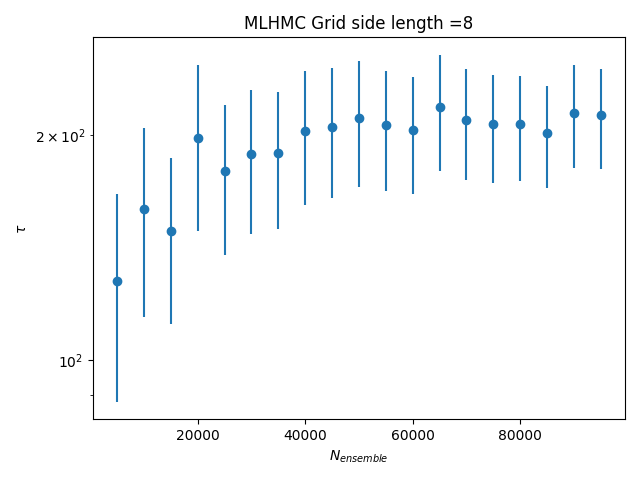
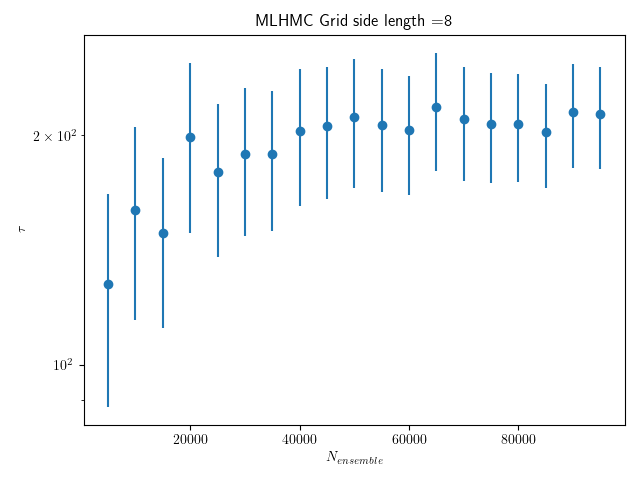
plotted results

diff --git a/plot/plot.py b/plot/plot.py
@@ -8,6 +8,11 @@ import numpy as np
 import scipy.special
 import scipy.optimize as opt
 
+plt.rcParams.update({
+    "text.usetex": True,
+    "text.latex.preamble": '\\usepackage{siunitx}'
+})
+
 magnetization_name = "magnetization"
 field_squared_name = "field_squared"
 magnetization_squared_name = "magnetization_squared"
@@ -296,11 +301,19 @@ def info_plot(sub_folder_name, observable_name=magnetization_name):
     yerr_wo_bias_correction_multi_hmc = []
     y_w_bias_correction_hmc = []
     y_w_bias_correction_multi_hmc = []
+    hmc_first = True
+    mlhmc_first = True
     for i, nu_pre in enumerate(nu_pre_level1):
         if nu_pre == -1:
-            ls[0] = ax1_.errorbar(np.sqrt(system_size[i]), int_auto_correlation_time[i],
-                                  int_auto_correlation_time_stat_error[i],
-                                  fmt='.', mfc='red', mec='red', ecolor='red')
+            if hmc_first:
+                ls[0] = ax1_.errorbar(np.sqrt(system_size[i]), int_auto_correlation_time[i],
+                                      int_auto_correlation_time_stat_error[i],
+                                      fmt='.', mfc='red', mec='red', ecolor='red', label="HMC")
+                hmc_first = False
+            else:
+                ls[0] = ax1_.errorbar(np.sqrt(system_size[i]), int_auto_correlation_time[i],
+                                      int_auto_correlation_time_stat_error[i],
+                                      fmt='.', mfc='red', mec='red', ecolor='red')
             ax2_.errorbar(np.sqrt(system_size[i]), int_auto_correlation_time[i] + int_auto_correlation_time_bias[i],
                           int_auto_correlation_time_stat_error[i],
                           fmt='.', mfc='red', mec='red', ecolor='red')
@@ -317,9 +330,15 @@ def info_plot(sub_folder_name, observable_name=magnetization_name):
                     yerr_wo_bias_correction_multi_hmc.append(int_auto_correlation_time_stat_error[i])
             ax3_.scatter(np.sqrt(system_size[i]), int_auto_correlation_time_bias[i], c='red')
         else:
-            ls[1] = ax1_.errorbar(np.sqrt(system_size[i]), int_auto_correlation_time[i],
-                                  int_auto_correlation_time_stat_error[i],
-                                  fmt='.', mfc='green', mec='green', ecolor='green')
+            if mlhmc_first:
+                ls[1] = ax1_.errorbar(np.sqrt(system_size[i]), int_auto_correlation_time[i],
+                                      int_auto_correlation_time_stat_error[i],
+                                      fmt='.', mfc='green', mec='green', ecolor='green', label="MLHMC")
+                mlhmc_first = False
+            else:
+                ls[1] = ax1_.errorbar(np.sqrt(system_size[i]), int_auto_correlation_time[i],
+                                      int_auto_correlation_time_stat_error[i],
+                                      fmt='.', mfc='green', mec='green', ecolor='green')
             ax2_.errorbar(np.sqrt(system_size[i]), int_auto_correlation_time[i] + int_auto_correlation_time_bias[i],
                           int_auto_correlation_time_stat_error[i],
                           fmt='.', mfc='green', mec='green', ecolor='green')
@@ -333,19 +352,32 @@ def info_plot(sub_folder_name, observable_name=magnetization_name):
     popt, pcov = opt.curve_fit(fit_function, x_wo_bias_correction_hmc, y_wo_bias_correction_hmc,
                                sigma=yerr_wo_bias_correction_hmc)
     f = open(sub_folder_name + "output.txt", "w")
+    x_wo_bias_correction_hmc = np.array(x_wo_bias_correction_hmc)
+    y_wo_bias_correction_hmc = np.array(y_wo_bias_correction_hmc)
+    yerr_wo_bias_correction_hmc = np.array(yerr_wo_bias_correction_hmc)
+    chi2 = (((y_wo_bias_correction_hmc - fit_function(x_wo_bias_correction_hmc,
+                                                      *popt)) / yerr_wo_bias_correction_hmc) ** 2).sum() / (
+                   len(x_wo_bias_correction_hmc) - len(popt))
     print("HMC", observable_name, "a =", popt[0], "+-", np.sqrt(pcov[0, 0]), "z =", popt[1], "+-", np.sqrt(pcov[1, 1]),
+          "chi2 =", chi2,
           file=f)
-    x_fit = np.logspace(0, 2)
+    x_fit = np.linspace(3.8, 70)
     y_fit = fit_function(x_fit, *popt)
-    ax1_.plot(x_fit, y_fit, label="HMC")
+    ax1_.plot(x_fit, y_fit, label="HMC fit")
 
     popt, pcov = opt.curve_fit(fit_function, x_wo_bias_correction_multi_hmc, y_wo_bias_correction_multi_hmc,
                                sigma=yerr_wo_bias_correction_multi_hmc)
+    x_wo_bias_correction_multi_hmc = np.array(x_wo_bias_correction_multi_hmc)
+    y_wo_bias_correction_multi_hmc = np.array(y_wo_bias_correction_multi_hmc)
+    yerr_wo_bias_correction_multi_hmc = np.array(yerr_wo_bias_correction_multi_hmc)
+    chi2 = (((y_wo_bias_correction_multi_hmc - fit_function(x_wo_bias_correction_multi_hmc,
+                                                            *popt)) / yerr_wo_bias_correction_multi_hmc) ** 2).sum() / (
+                   len(x_wo_bias_correction_multi_hmc) - len(popt))
     print("MLHMC", observable_name, "a =", popt[0], "+-", np.sqrt(pcov[0, 0]), "z =", popt[1], "+-",
-          np.sqrt(pcov[1, 1]), file=f)
+          np.sqrt(pcov[1, 1]), "chi2 =", chi2, file=f)
     f.close()
     y_fit = fit_function(x_fit, *popt)
-    ax1_.plot(x_fit, y_fit, label="Multilevel")
+    ax1_.plot(x_fit, y_fit, label="MLHMC fit")
 
     ax1_.legend(loc="upper left")
 
@@ -363,14 +395,14 @@ def info_plot(sub_folder_name, observable_name=magnetization_name):
 
     ax2_.legend(loc="upper left")
 
-    ax1_.set_title("Without bias correction")
+    # ax1_.set_title("Without bias correction")
     ax2_.set_title("With bias correction")
-    fig_.legend(ls, labels, loc="upper right")
+    # ax1_.legend(ls, labels, loc="upper right")
 
-    fig_.subplots_adjust(right=0.85)
+    # fig_.subplots_adjust(right=0.85)
 
-    ax1_.set_xlabel(r"$N$")
-    ax1_.set_ylabel(r"$\tau$")
+    ax1_.set_xlabel(r"$l$")
+    ax1_.set_ylabel(r"$\bar{\tau}_{\text{int},m}$")
     ax1_.set_xscale('log')
     ax1_.set_yscale('log')
 
@@ -383,6 +415,8 @@ def info_plot(sub_folder_name, observable_name=magnetization_name):
     ax3_.set_ylabel("Bias")
     ax3_.set_xscale('log')
     # ax3_.set_yscale('log')
+
+    fig_.set_tight_layout(True)
 
     fig_.savefig(sub_folder_name + observable_name + sub_folder_name[:-1] + ".png", dpi=1000)
     fig_.clear()
@@ -767,7 +801,7 @@ def crit_int_auto_correlation_plot(sub_folder_name, observable_name=magnetizatio
 # crit_int_auto_correlation_plot("gs_32_CB_ga_1_levels_2/")
 # crit_int_auto_correlation_plot("gs_64_CB_ga_1_levels_2/")
 # info_plot("volume_exponent/", magnetization_squared_name)
-# info_plot("volume_exponent_test/")
+info_plot("volume_exponent_test/")
 # check_thermalisation("volume_exponent/")
-base_plot("HMC_physical_check/")
+# base_plot("HMC_physical_check/")
 # base_plot("MLHMC_physical_check/")
